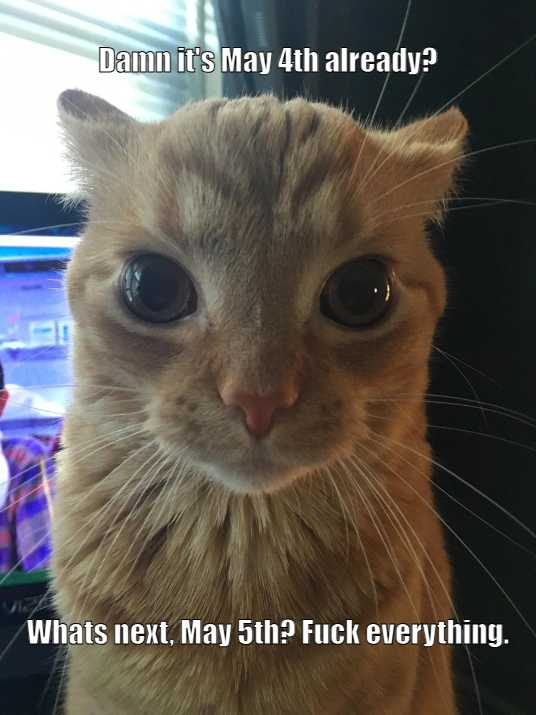
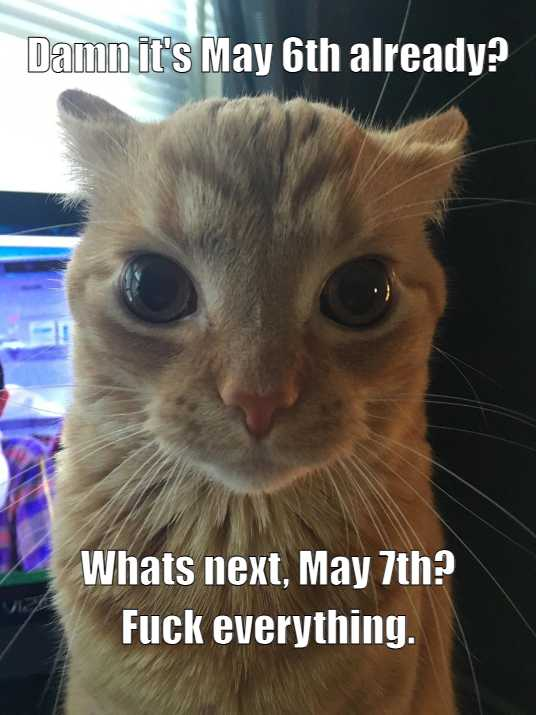
bettering

Changed region(s): [[0.0299, 0.7692, 0.9552, 0.9231], [0.0299, 0.0308, 0.9552, 0.1231]]

diff --git a/generator.js b/generator.js
@@ -67,7 +67,7 @@ function makeBottomText(date) {
   const month = monthLUT[nextDate.getMonth()];
   const day = nextDate.getDate();
   const postfix = getOrderPostfix(day);
-  return `Whats next, ${month} ${day}${postfix}? Fuck everything.`;
+  return `Whats next, ${month} ${day}${postfix}?`;
 }
 
 function generateAutoslop(image) {
@@ -83,16 +83,24 @@ function generateAutoslop(image) {
 
   // not exact but pretty good, especially when fit to %90
   ctx.font = '1px impact';
-  const fontSize = canvas.width * 0.9 / ctx.measureText(bottomText).width;
+  const fontSize = canvas.width * 0.9 / ctx.measureText(topText).width;
   
   ctx.font = `${fontSize}px impact`;
   ctx.fillStyle = '#fff'
   ctx.textAlign = 'center';
   ctx.strokeStyle = '#000 2px'
-  ctx.fillText(topText, canvas.width/2, canvas.height * 0.1, canvas.width);
-  ctx.strokeText(topText, canvas.width/2, canvas.height * 0.1, canvas.width);
-  ctx.fillText(bottomText, canvas.width/2, canvas.height * 0.9, canvas.width);
-  ctx.strokeText(bottomText, canvas.width/2, canvas.height * 0.9, canvas.width);
+  ctx.fillText(topText, canvas.width / 2, canvas.height * 0.1, canvas.width);
+  ctx.strokeText(topText, canvas.width / 2, canvas.height * 0.1, canvas.width);
+  
+  const metrics = ctx.measureText(bottomText);
+  const textHeight = metrics.actualBoundingBoxAscent + metrics.actualBoundingBoxDescent;
+  console.log(textHeight);
+
+  ctx.fillText(bottomText, canvas.width / 2, canvas.height * 0.9 - textHeight * 1.5, canvas.width);
+  ctx.strokeText(bottomText, canvas.width / 2, canvas.height * 0.9 - textHeight * 1.5, canvas.width);
+  
+  ctx.fillText('Fuck everything.', canvas.width / 2, canvas.height * 0.9, canvas.width);
+  ctx.strokeText('Fuck everything.', canvas.width / 2, canvas.height * 0.9, canvas.width);
 
   return canvas.toDataURL('image/jpeg', 0.5);
 }
